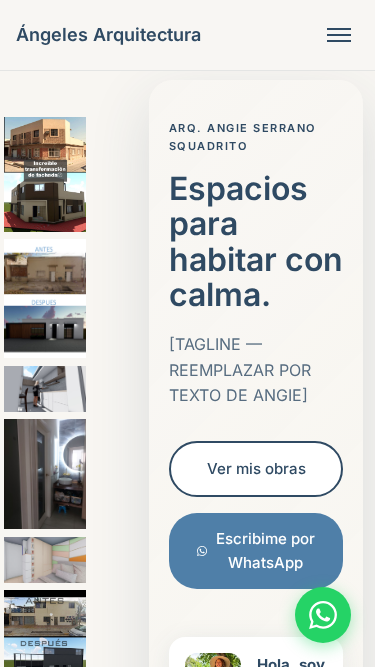
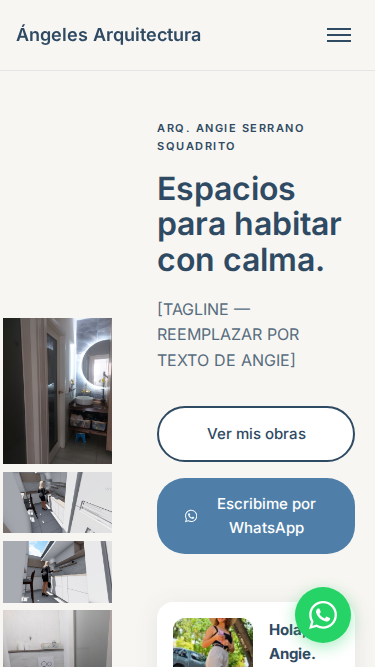
fix: properly port Codrops Exhibition 3D gallery to hero
- Fix layout: separate 3D gallery container from content overlay
- Use proper Exhibition structure: container > scroller > room > sides
- Position content as absolute overlay, not inside 3D space
- Gallery fills full 100vh on desktop
- Images displayed as framed artworks on room walls (back, left, right)
- Avoid images with social media text
- Mobile: gallery 50vh on top, content below with full width
- Update all class names: hero-gallery-* prefix
- Fix JavaScript to use correct selectors
- Update tests to use new class names
- All 3 hero exhibition tests pass
- New screenshots: desktop and mobile

diff --git a/index.html b/index.html
@@ -51,29 +51,29 @@
 
     <!-- Hero Section - Exhibition Gallery -->
     <section class="hero" id="hero">
-        <div class="hero-container">
-            <div class="hero-scroller">
-                <div class="hero-room hero-room--current">
-                    <div class="hero-room__side hero-room__side--back">
-                        <img class="hero-room__img" src="assets/obras/fachada1.jpg" alt="Diseño de fachada" loading="eager">
-                        <img class="hero-room__img" src="assets/obras/fachada2.jpg" alt="Diseño de fachada" loading="eager">
+        <div class="hero-gallery-container">
+            <div class="hero-gallery-scroller">
+                <div class="hero-gallery-room hero-gallery-room--current">
+                    <div class="hero-gallery-room__side hero-gallery-room__side--back">
+                        <img class="hero-gallery-room__img" src="assets/obras/bano-foto-1.jpg" alt="Transformación de baño" loading="eager">
+                        <img class="hero-gallery-room__img" src="assets/obras/cocina-1.jpg" alt="Amoblamiento de cocina" loading="eager">
                     </div>
-                    <div class="hero-room__side hero-room__side--left">
-                        <img class="hero-room__img" src="assets/obras/cocina-2.jpg" alt="Amoblamiento de cocina" loading="eager">
-                        <img class="hero-room__img" src="assets/obras/bano-foto-1.jpg" alt="Transformación de baño" loading="eager">
-                        <img class="hero-room__img" src="assets/obras/dormitorio-1.jpg" alt="Diseño de dormitorios" loading="eager">
+                    <div class="hero-gallery-room__side hero-gallery-room__side--left">
+                        <img class="hero-gallery-room__img" src="assets/obras/cocina-2.jpg" alt="Amoblamiento de cocina" loading="eager">
+                        <img class="hero-gallery-room__img" src="assets/obras/bano-foto-2.jpg" alt="Transformación de baño" loading="eager">
+                        <img class="hero-gallery-room__img" src="assets/obras/dormitorio-1.jpg" alt="Diseño de dormitorios" loading="eager">
                     </div>
-                    <div class="hero-room__side hero-room__side--right">
-                        <img class="hero-room__img" src="assets/obras/fachada3-b.jpg" alt="Diseño de fachada" loading="eager">
-                        <img class="hero-room__img" src="assets/obras/cocina-3.jpg" alt="Amoblamiento de cocina" loading="eager">
-                        <img class="hero-room__img" src="assets/obras/bano-foto-2.jpg" alt="Transformación de baño" loading="eager">
+                    <div class="hero-gallery-room__side hero-gallery-room__side--right">
+                        <img class="hero-gallery-room__img" src="assets/obras/fachada3-b.jpg" alt="Diseño de fachada" loading="eager">
+                        <img class="hero-gallery-room__img" src="assets/obras/cocina-3.jpg" alt="Amoblamiento de cocina" loading="eager">
+                        <img class="hero-gallery-room__img" src="assets/obras/dormitorio-2.jpg" alt="Diseño de dormitorios" loading="eager">
                     </div>
-                    <div class="hero-room__side hero-room__side--bottom"></div>
+                    <div class="hero-gallery-room__side hero-gallery-room__side--bottom"></div>
                 </div>
             </div>
         </div>
-        <div class="hero-content-overlay">
-            <div class="hero-content">
+        <div class="hero-content">
+            <div class="hero-content-inner">
                 <p class="hero-subtitle">ARQ. ANGIE SERRANO SQUADRITO</p>
                 <h1 class="hero-title">Espacios para habitar con calma.</h1>
                 <p class="hero-tagline">[TAGLINE — REEMPLAZAR POR TEXTO DE ANGIE]</p>

diff --git a/test-hero-exhibition.spec.js b/test-hero-exhibition.spec.js
@@ -5,29 +5,29 @@ test.describe('Hero Exhibition Gallery', () => {
         await page.goto('http://localhost:8000');
         
         // Wait for hero section to be visible
-        await page.waitForSelector('.hero-container', { state: 'visible', timeout: 10000 });
+        await page.waitForSelector('.hero-gallery-container', { state: 'visible', timeout: 10000 });
         
         // Wait for images to load
         await page.waitForLoadState('networkidle');
         await page.waitForTimeout(1000);
         
         // Check that the 3D room structure exists
-        const heroContainer = await page.locator('.hero-container');
+        const heroContainer = await page.locator('.hero-gallery-container');
         await expect(heroContainer).toBeVisible();
         
-        const heroScroller = await page.locator('.hero-scroller');
+        const heroScroller = await page.locator('.hero-gallery-scroller');
         await expect(heroScroller).toBeVisible();
         
         // Check that at least one room is visible
-        const currentRoom = await page.locator('.hero-room--current');
+        const currentRoom = await page.locator('.hero-gallery-room--current');
         await expect(currentRoom).toBeVisible();
         
         // Check that images are loaded and visible
-        const images = await page.locator('.hero-room__img').all();
+        const images = await page.locator('.hero-gallery-room__img').all();
         expect(images.length).toBeGreaterThan(0);
         
         // Verify first image is loaded and non-blank
-        const firstImage = await page.locator('.hero-room__img').first();
+        const firstImage = await page.locator('.hero-gallery-room__img').first();
         await expect(firstImage).toBeVisible();
         
         // Check that image has natural dimensions (is actually loaded)
@@ -51,8 +51,8 @@ test.describe('Hero Exhibition Gallery', () => {
     test('should display content overlay with readable headline', async ({ page }) => {
         await page.goto('http://localhost:8000');
         
-        // Wait for content overlay
-        await page.waitForSelector('.hero-content-overlay', { state: 'visible' });
+        // Wait for content
+        await page.waitForSelector('.hero-content', { state: 'visible' });
         
         // Check headline is visible and readable
         const title = await page.locator('.hero-title');
@@ -91,7 +91,7 @@ test.describe('Hero Exhibition Gallery', () => {
         expect(titleText.length).toBeGreaterThan(0);
         
         // Verify images are visible on mobile
-        const visibleImages = await page.locator('.hero-room__img:visible');
+        const visibleImages = await page.locator('.hero-gallery-room__img:visible');
         const count = await visibleImages.count();
         expect(count).toBeGreaterThan(0);
     });

diff --git a/styles.css b/styles.css
@@ -142,18 +142,6 @@ a {
     opacity: 0.3;
 }
 
-.hero-content {
-    position: relative;
-    z-index: 1;
-    max-width: 800px;
-    padding: 60px 24px;
-    pointer-events: auto;
-    background: linear-gradient(135deg, rgba(248, 246, 242, 0.95) 0%, rgba(248, 246, 242, 0.9) 100%);
-    backdrop-filter: blur(10px);
-    border-radius: 24px;
-    margin-left: 24px;
-    box-shadow: 0 20px 60px rgba(47, 74, 99, 0.15);
-}
 
 .hero-subtitle {
     font-size: 13px;
@@ -917,16 +905,32 @@ section {
 }
 
 @media (max-width: 768px) {
-    .hero-room__img {
-        max-width: 60%;
-        max-height: 50%;
-        margin: 0 3%;
+    .hero {
+        height: auto;
+        min-height: 100vh;
+    }
+    
+    .hero-gallery-container {
+        position: relative;
+        height: 50vh;
+    }
+    
+    .hero-gallery-room__img {
+        max-width: 80%;
+        max-height: 70%;
+        margin: 0 2%;
     }
     
     .hero-content {
-        max-width: 90%;
-        margin: 0 auto;
+        position: relative;
+        height: auto;
         padding: 40px 20px;
+        background: #F8F6F2;
+    }
+    
+    .hero-content-inner {
+        max-width: 100%;
+        margin: 0;
     }
     
     .hero-title {

diff --git a/take-screenshots.js b/take-screenshots.js
@@ -7,7 +7,7 @@ const playwright = require('playwright');
     const desktopPage = await browser.newPage({
         viewport: { width: 1920, height: 1080 }
     });
-    await desktopPage.goto('http://localhost:9000');
+    await desktopPage.goto('http://localhost:8000');
     await desktopPage.waitForLoadState('networkidle');
     await desktopPage.waitForTimeout(2000); // Wait for 3D initialization
     await desktopPage.screenshot({
@@ -20,7 +20,7 @@ const playwright = require('playwright');
     const mobilePage = await browser.newPage({
         viewport: { width: 375, height: 667 }
     });
-    await mobilePage.goto('http://localhost:9000');
+    await mobilePage.goto('http://localhost:8000');
     await mobilePage.waitForLoadState('networkidle');
     await mobilePage.waitForTimeout(2000);
     await mobilePage.screenshot({

diff --git a/hero-exhibition.js b/hero-exhibition.js
@@ -7,12 +7,12 @@
     'use strict';
 
     // Check if we're on a page with the hero exhibition
-    const heroScroller = document.querySelector('.hero-scroller');
+    const heroScroller = document.querySelector('.hero-gallery-scroller');
     if (!heroScroller) return;
 
     const DOM = {
         scroller: heroScroller,
-        rooms: [].slice.call(heroScroller.querySelectorAll('.hero-room'))
+        rooms: [].slice.call(heroScroller.querySelectorAll('.hero-gallery-room'))
     };
 
     const initTransform = { 
